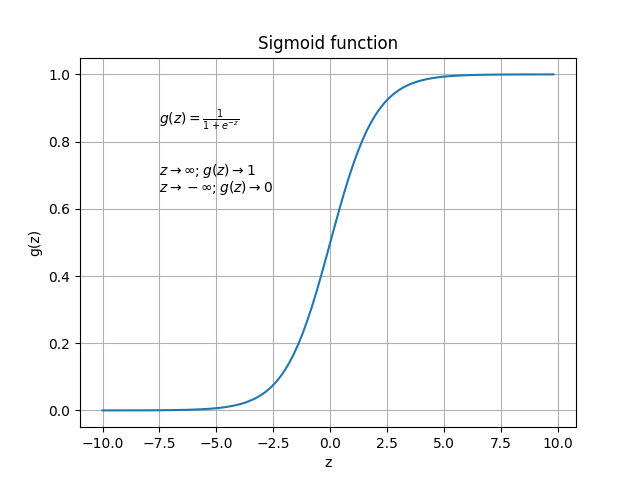
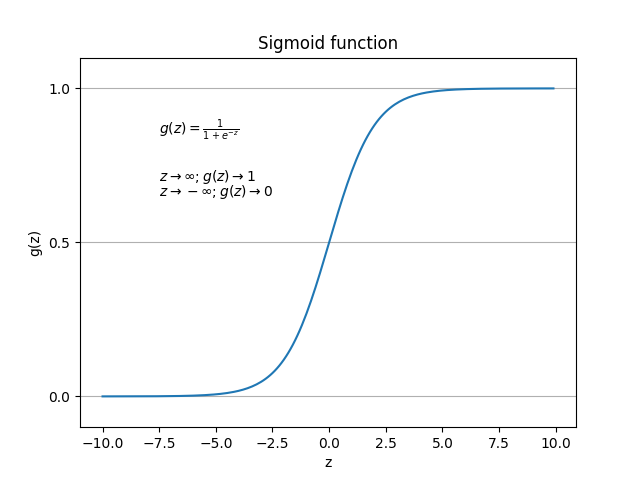
sigmoid function updates...

diff --git a/LogisticRegression.md b/LogisticRegression.md
@@ -163,9 +163,10 @@ This `link` function follows a sigmoid as shown next which limits the range of p
 In `python` such an equation may be coded and visualized as below.
 
 ```python
+import math
+
 import numpy as np
 import matplotlib.pyplot as plt
-import math
 
 
 def sigmoid(z):
@@ -175,18 +176,24 @@ def sigmoid(z):
     return a
 
 
-x = np.arange(-10., 10., 0.2)
+x = np.arange(-10., 10., 0.1)
 s = sigmoid(x)
 plt.plot(x, s)
-plt.title('Sigmoid function')
-plt.xlabel('x')
-plt.ylabel('y')
+plt.xlim()
+plt.ylim(-0.1, 1.1)
+plt.xlabel('z')
+plt.ylabel('g(z)')
+
 plt.xticks()
-plt.yticks()
+plt.yticks([0.0, 0.5, 1.0])
+ax = plt.gca()
+ax.yaxis.grid(True)
+
+plt.title('Sigmoid function')
 plt.text(-7.5, 0.85, r'$g(z) = \frac{1}{1 + e^{-z}}$')
 plt.text(-7.5, 0.70, r'$z \rightarrow  \infty  ; g(z) \rightarrow 1$')
 plt.text(-7.5, 0.65, r'$z \rightarrow  -\infty  ; g(z) \rightarrow 0$')
-plt.grid(True)
+
 plt.show()
 ```
 
